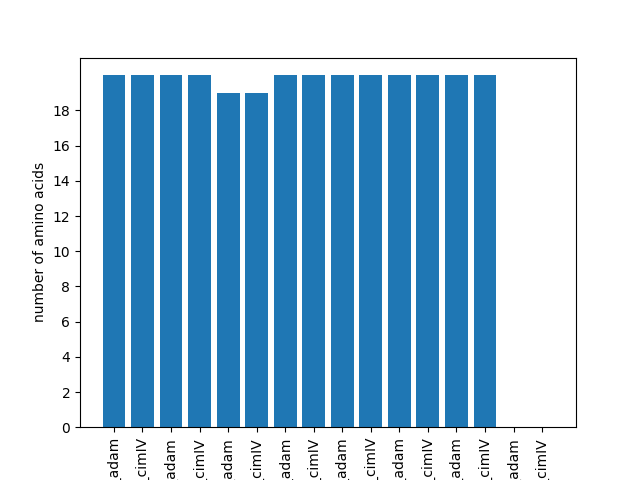
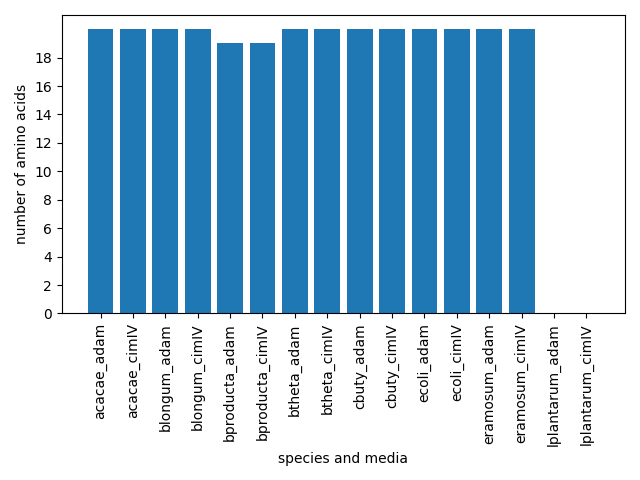
add plot tight layout

diff --git a/src/wp1_analyzer.py b/src/wp1_analyzer.py
@@ -81,6 +81,7 @@ def compare_nr_amino_acids(pathways: dict[SpeciesMediumCombination, dict[AminoAc
     plt.ylabel("number of amino acids")
     plt.yticks(np.arange(0, 20, step=2))
     plt.xticks(rotation = 90)
+    plt.tight_layout()
     # TODO: Plot beschriftung schöner machen
     plt.savefig("output/plots/species_medium_aa_bar_plot.png")
 
@@ -149,6 +150,8 @@ def compare_rec_based_on_organism(pathways: dict[SpeciesMediumCombination, dict[
         vmin=-1,
         xticklabels=True,
         yticklabels=True)
+
+    plt.tight_layout()
     plt.show()
 
 def path_exists(pathways: list[list[str]], path: list[str]):
@@ -184,6 +187,7 @@ def compare_rec_based_on_medium(pathways: dict[SpeciesMediumCombination, dict[Am
 
     plt.title("no. of diff. pathways per media in diff. species")
     sns.heatmap(df)
+    plt.tight_layout()
     plt.savefig("output/plots/reaction_medium.png")
 
 def alternative_react_paths(pathways: dict[SpeciesMediumCombination, dict[AminoAcid, list[str]]]):
@@ -206,6 +210,7 @@ def alternative_react_paths(pathways: dict[SpeciesMediumCombination, dict[AminoA
     plt.title("no. of alternative reaction paths")
     plt.xlabel("amino acid")
     plt.ylabel("number of amino acids")
+    plt.tight_layout()
     plt.show()
 
 def compare_subgraph_sizes(load=False):
